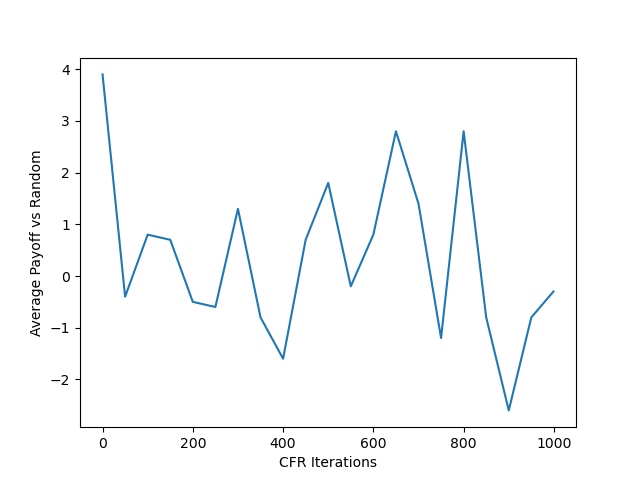
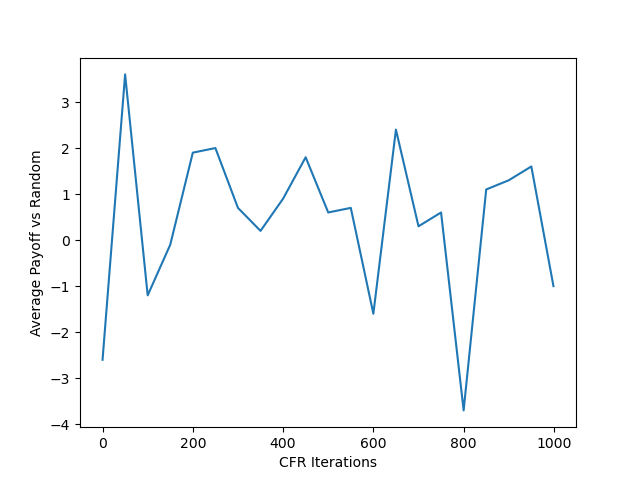
added vs_random plot in cfr2.py

diff --git a/opponent_cfr.py b/opponent_cfr.py
@@ -89,7 +89,7 @@ def estimate_policy_from_counts(
 
 
 def main():
-    counts1, legal_by_key1 = collect_opponent_counts(n_games=10000)
+    counts1, legal_by_key1 = collect_opponent_counts(n_games=50000)
 
     steps, vss, exploits, infoset = solve(t_max = 1000)
 
@@ -111,7 +111,7 @@ def main():
     avg_payoff_rand = vs_random(infoset, n_games=10000)
     print(f"Average payoff vs random after CFR training: {avg_payoff_rand}")
 
-    counts2, legal_by_key2 = collect_opponent_counts(n_games=10000, infoset=infoset)
+    counts2, legal_by_key2 = collect_opponent_counts(n_games=50000, infoset=infoset)
 
     # Merge counts and legal actions from both phases
     counts = counts1

diff --git a/cfr2.py b/cfr2.py
@@ -488,9 +488,17 @@ def solve(
   return steps, vss, exploits, infoset
 
 def main():
-    steps, _, exploits, _ = solve()
+    steps, vss, exploits, infoset = solve(t_max=1000)
+    plt.figure()
     plt.plot(steps, exploits)
     plt.savefig("exploit.png")
+
+    plt.figure()
+    plt.plot(steps, vss)
+    plt.savefig("vs_random.png")
+
+    avg_payoff_rand = vs_random(infoset, n_games=10000)
+    print(f"Average payoff vs random after CFR training: {avg_payoff_rand}")
 
 if __name__ == "__main__":
     main()
